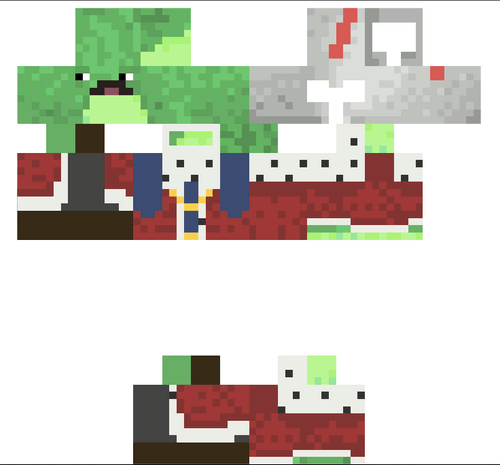
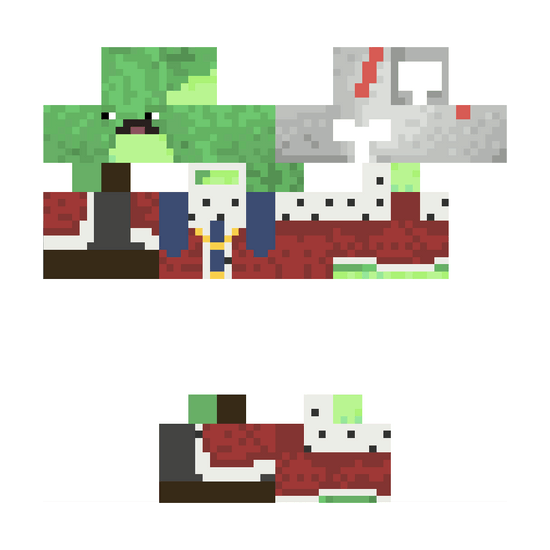
feat: added steak to staked critterz

diff --git a/whitepaper.html b/whitepaper.html
@@ -106,6 +106,12 @@
       </ul>
       <div class="info-text">These mechanisms are only accessible when Critterz are staked. You will lose access to them if you unstake your Critterz. Luckily, we’ve created auto-staking mechanisms to save on gas fees for staking Critterz. Upon minting, users are given the option to either “Mint” or “Mint &amp; stake”. The “<strong>Mint &amp; stake</strong>” option will automatically mint and stake the Critterz in one transaction, which helps the users save on gas fees.  <br></div>
       <div class="info-text">Unique to this project, when users stake their Critterz, the Critterz isn&#x27;t just moved to the staking contract. Players who stake their Critterz are also provided with an sCritter (staked Critter) token. The sCritter token is used for many of the mechanics to be discussed in later sections. <br></div>
+      <div class="whole-wp-img-wrapper">
+        <div class="whitepaper-image-wrapper">
+          <div class="whitepaper-image-div"><img src="images/frogskinsneakpeek_steak.png" alt="" class="whitepaper-img-graphs"></div>
+        </div>
+        <div class="img-caption"><em>Staked Critterz will be shown holding steak.</em><br></div>
+      </div>
     </div>
   </section>
   <section id="block" class="whitepaper-section wf-section">
